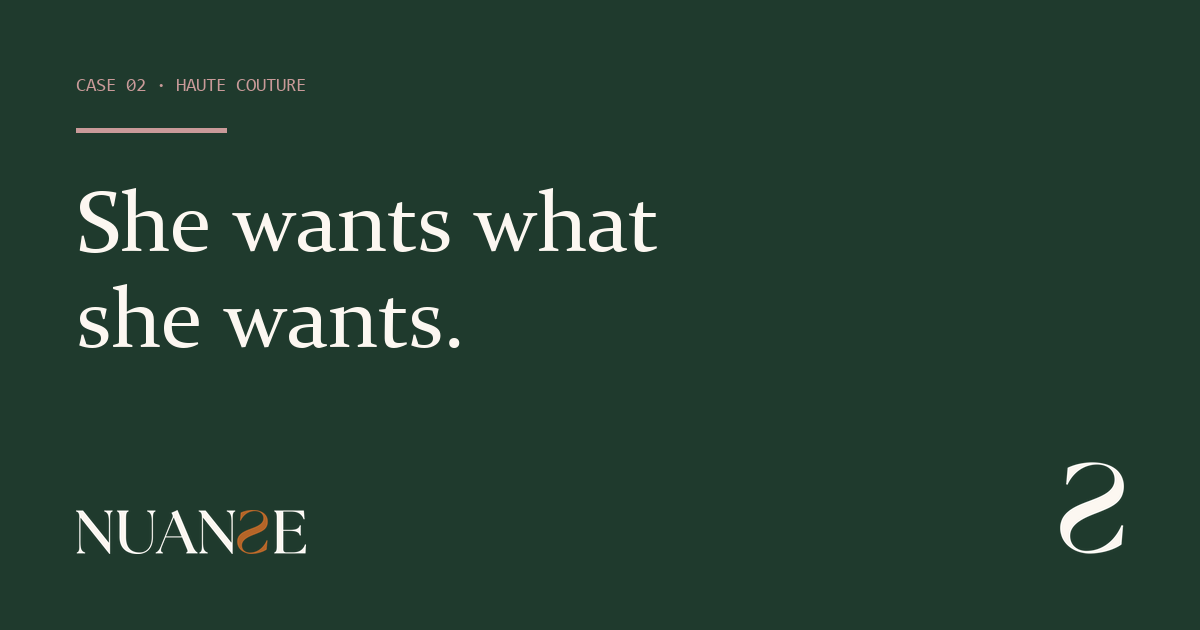
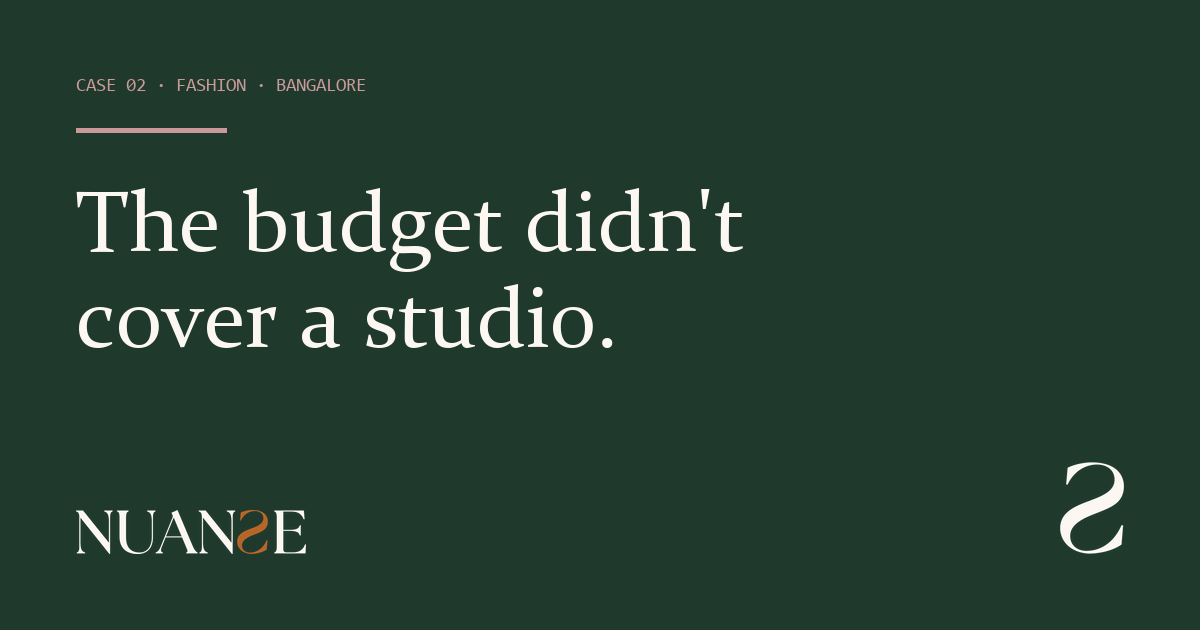
Three contrast failures, two broken share cards, and the Possah sitemap
Finishing the Possah pass. Everything here was found by a verification
run, not by reading the code.

Contrast, all three real AA failures on text a visitor reads:

  .pj-next .mono carried opacity:.8. The next-project panel wears the
  NEXT project's accent, and Zingara's true red #C8332A is dark enough
  that cream at .8 is 3.69:1 at 11px. Full cream on that red is 4.97:1 -
  the whole budget, with none left for de-emphasis. It was invisible to
  the audit until prefers-reduced-motion removed the ::before overlay
  that was hiding it.

  Zingara's menu mockup used #8A857C at 11-13px on #FFFDF6 in three
  places: 3.6:1. It is a mockup, but it is real text in the DOM, so the
  real rule applies. #746F66 is 4.9:1 and still reads as the quiet line.

The OG cards were worse than wrong, they were plausible. The Possah page
pointed at og-possah.png while the built file is og-the-possah.png, so
every shared link had no image. Fixing that surfaced two more: Zingara's
card still said "The menu was costing them." from before the rebuild,
and Possah's set the client's own tagline in Gloock with its
capitalisation changed to suit the template. Each card now carries its
page's own H1, and the line on it is ours.

Plus site/sitemap.xml gains /work/the-possah.

Verified across /, /work/zingara and /work/the-possah: zero axe
violations on desktop, reduced-motion and mobile; zero console errors,
CSP violations and failed requests on every pass including GSAP blocked;
[…]

Changed region(s): [[0.0617, 0.3016, 0.6167, 0.4222], [0.0617, 0.4524, 0.4933, 0.573], [0.1542, 0.1206, 0.3083, 0.1508]]

diff --git a/site/assets/css/work/zingara.css b/site/assets/css/work/zingara.css
@@ -123,7 +123,7 @@
 .zm-sec-after{position:absolute;left:0;top:0;white-space:nowrap;display:block;
   font-family:var(--mono);font-weight:400;letter-spacing:.16em;text-transform:uppercase;
   font-size:.86em;color:var(--accent-ink);opacity:calc((var(--p) - .5) * 2)}
-.zm-sec-meta{font-family:var(--mono);font-size:clamp(9px,1.5cqi,11px);color:#8A857C;
+.zm-sec-meta{font-family:var(--mono);font-size:clamp(9px,1.5cqi,11px);color:#746F66;
   opacity:calc((var(--p) - .5) * 2)}
 
 .zm-list{position:relative;list-style:none;margin:0;padding:0}
@@ -165,8 +165,14 @@
   vertical-align:bottom}
 .zm-suf{--w:1.6em}
 
-/* the description only exists in the corrected menu */
-.zm-desc{grid-column:1;display:block;font-size:clamp(10px,1.7cqi,13px);color:#8A857C;
+/* the description only exists in the corrected menu.
+   #746F66, not the #8A857C this and the two other greys in this mockup
+   started as: at 11-13px on #FFFDF6 that measured 3.6:1 and failed AA. It is a mockup of a menu listing, but it
+   is real text in the DOM, so the real rule applies. #746F66 is 4.9:1 and
+   still reads as the quiet line under the dish name. The failure was only
+   visible under prefers-reduced-motion, where the text is shown at full
+   opacity instead of fading in with the slider. */
+.zm-desc{grid-column:1;display:block;font-size:clamp(10px,1.7cqi,13px);color:#746F66;
   line-height:1.4;opacity:calc((var(--p) - .6) * 2.5);
   max-height:calc(var(--p) * 3em);overflow:hidden;font-family:var(--sans)}
 
@@ -181,7 +187,7 @@
 .zm-foot{position:relative;display:flex;justify-content:space-between;gap:16px;
   margin-top:clamp(18px,3cqi,30px);font-family:var(--mono);
   font-size:clamp(9px,1.5cqi,11px);letter-spacing:.14em;text-transform:uppercase;
-  color:#8A857C;opacity:var(--p)}
+  color:#746F66;opacity:var(--p)}
 
 /* ---- the control ---- */
 .zm-ctrl{position:relative;margin-top:26px}

diff --git a/site/work/_the-possah.src.html b/site/work/_the-possah.src.html
@@ -18,14 +18,14 @@
 <meta property="og:title" content="The Possah — the budget didn't cover a studio">
 <meta property="og:description" content="A collection to launch, no budget for a shoot, and a site that was losing the sale. So we built the campaign.">
 <meta property="og:url" content="https://www.thenuanse.com/work/the-possah">
-<meta property="og:image" content="https://www.thenuanse.com/assets/brand/og-possah.png">
+<meta property="og:image" content="https://www.thenuanse.com/assets/brand/og-the-possah.png">
 <meta property="og:image:width" content="1200">
 <meta property="og:image:height" content="630">
 <meta property="og:image:alt" content="The Possah, a case from NUANSE.">
 <meta name="twitter:card" content="summary_large_image">
 <meta name="twitter:title" content="The Possah — the budget didn't cover a studio">
 <meta name="twitter:description" content="A collection to launch, no budget for a shoot, and a site that was losing the sale.">
-<meta name="twitter:image" content="https://www.thenuanse.com/assets/brand/og-possah.png">
+<meta name="twitter:image" content="https://www.thenuanse.com/assets/brand/og-the-possah.png">
 
 <link rel="preload" href="../assets/fonts/gloock-400-latin.woff2" as="font" type="font/woff2" crossorigin>
 <link rel="preload" href="../assets/fonts/hanken-var-latin.woff2" as="font" type="font/woff2" crossorigin>

diff --git a/site/work/the-possah.html b/site/work/the-possah.html
@@ -18,14 +18,14 @@
 <meta property="og:title" content="The Possah — the budget didn't cover a studio">
 <meta property="og:description" content="A collection to launch, no budget for a shoot, and a site that was losing the sale. So we built the campaign.">
 <meta property="og:url" content="https://www.thenuanse.com/work/the-possah">
-<meta property="og:image" content="https://www.thenuanse.com/assets/brand/og-possah.png">
+<meta property="og:image" content="https://www.thenuanse.com/assets/brand/og-the-possah.png">
 <meta property="og:image:width" content="1200">
 <meta property="og:image:height" content="630">
 <meta property="og:image:alt" content="The Possah, a case from NUANSE.">
 <meta name="twitter:card" content="summary_large_image">
 <meta name="twitter:title" content="The Possah — the budget didn't cover a studio">
 <meta name="twitter:description" content="A collection to launch, no budget for a shoot, and a site that was losing the sale.">
-<meta name="twitter:image" content="https://www.thenuanse.com/assets/brand/og-possah.png">
+<meta name="twitter:image" content="https://www.thenuanse.com/assets/brand/og-the-possah.png">
 
 <link rel="preload" href="../assets/fonts/gloock-400-latin.woff2" as="font" type="font/woff2" crossorigin>
 <link rel="preload" href="../assets/fonts/hanken-var-latin.woff2" as="font" type="font/woff2" crossorigin>

diff --git a/site/assets/css/work.css b/site/assets/css/work.css
@@ -131,7 +131,14 @@
   color:var(--cream);padding:clamp(70px,11vw,150px) var(--gut);position:relative;overflow:hidden}
 .pj-next-in{display:grid;grid-template-columns:minmax(0,1fr) auto;gap:clamp(20px,4vw,48px);
   align-items:end}
-.pj-next .mono{opacity:.8;margin:0}
+/* No opacity on the eyebrow. The ground here is the NEXT project's accent,
+   and Zingara's true red #C8332A is dark enough that cream at .8 measures
+   3.69:1 at 11px - a real AA failure, visible only once .rm removes the
+   ::before overlay that was hiding it from the audit. Full cream on that red
+   is 4.97:1, which is the whole budget; there is none left to spend on
+   de-emphasis. The hierarchy here is 11px mono against 124px serif, which is
+   hierarchy enough. */
+.pj-next .mono{margin:0}
 .pj-next b{display:block;font-family:var(--serif);font-weight:400;
   font-size:clamp(44px,7.4vw,124px);line-height:.92;letter-spacing:-.035em;margin-top:14px;
   max-width:14ch}

diff --git a/tools/build-og-cards.py b/tools/build-og-cards.py
@@ -23,13 +23,17 @@ CREAM = '#FCF7F1'
 SERIF = 'C:/Windows/Fonts/constan.ttf'          # Constantia — a workable stand-in
 MONO = 'C:/Windows/Fonts/consola.ttf'
 
+# Each card carries its page's own H1, so a shared link and the page it opens
+# say the same thing. And the line is always OURS: a client's brand line set in
+# Gloock, with its capitalisation changed to suit a template, is a small
+# infidelity to ship on the thing that travels furthest from the work.
 CARDS = [
     {'out': 'og-zingara.png', 'ground': '#1C1A18', 'accent': '#C8332A',
      'kicker': 'CASE 01 · RESTAURANT · BANGALORE',
-     'title': 'The menu was\ncosting them.'},
+     'title': 'It read like three\nrestaurants.'},
     {'out': 'og-the-possah.png', 'ground': '#1F3A2D', 'accent': '#C99A99',
-     'kicker': 'CASE 02 · HAUTE COUTURE',
-     'title': 'She wants what\nshe wants.'},
+     'kicker': 'CASE 02 · FASHION · BANGALORE',
+     'title': "The budget didn't\ncover a studio."},
 ]
 
 

diff --git a/BUILD-LOG.md b/BUILD-LOG.md
@@ -5,6 +5,130 @@ matters — what was measured rather than assumed.
 
 ---
 
+## 2026-10-14 · The Possah, and four things it caught on the way through
+
+The second case page. Same chassis, same shape as the rebuilt Zingara: a
+campaign chapter, the signature, the system, naming, applications, the site
+work, scope, next.
+
+### The campaign chapter was missing, and the page promised it
+
+The H1 is *"The budget didn't cover a studio."* and the problem section says the
+campaign was built rather than booked. Nothing on the page showed a campaign
+frame. Five do now — two on location, three on the seamless — on a new
+`.gv.p45`, because `.gv.tall` is 2/3 and these frames are 4:5, and cropping a
+seventh off the width of a photograph someone composed is not a layout
+decision.
+
+### Three claims written, then withdrawn
+
+Each one I wrote myself and then could not support:
+
+**"Graded until twenty-four pieces looked like one afternoon."** The three
+catalogue backdrops measure `230,222,209`, `228,207,180` and `216,192,158`.
+That is three grades, not one. The H2, the lede and the closing note all
+carried the claim in some form; all three now carry only what is documented —
+the models are generated, the garments are real, scope on file is an AI model
+photoshoot across 24 SKUs.
+
+**"The cast shadow falling to the right."** It falls left, as a patch of window
+light. Alt text and caption corrected after looking at the source frame rather
+than the thumbnail.
+
+**"Page 03 of the Possah guidelines."** The tone-of-voice board's own foot reads
+03, but the contents board — which is on this same page, two chapters up — puts
+Tone of Voice at section 11, page 54. The page names the section instead of a
+number it cannot reconcile.
+
+The pattern is the same each time: the claim was plausible, and the file
+disagreed. Plausible is the dangerous kind.
+
+### The signature rested in the wrong place
+
+The voice matrix rested at `1,1` — the corner of its own pad, where a 24px dot
+with a −12px margin is bisected by the border and effectively invisible, and
+25 percentage points away from the dashed ring marking the brand's position.
+The guidelines plot Possah *inside* the Bold + Composed quadrant. A brand at
+the corner of its own matrix is a caricature of itself, and the board does not
+draw one there.
+
+It rests at `.75,.75` now, under the ring, which is grown to 38px so the dot
+sits inside it rather than covering it. `--drift` is measured from that point,
+one-sided: softer or more playful than Possah is drift; bolder or more composed
+is not. JS and CSS derive it with the same expression, so the state announced
+to a screen reader cannot disagree with the state on screen.
+
+### Two defects in the shared chassis, both found by looking
+
+**`.pj-specs` and `.pj-swatches` drew their hairlines by bleeding a container
+background through a 1px gap.** It works only when the item count fills the last
+row. Eight specs in a six-wide `auto-fit` grid left four empty tracks painted as
+a solid grey slab. The hairlines are on the cells now, so a grid that does not
+fill its last row simply stops.
+
+**`.pj-next .mono` had `opacity:.8`.** The next-project panel wears the *next*
+project's accent, and Zingara's true red `#C8332A` is dark enough that cream at
+.8 is 3.69:1 at 11px — a real AA failure. Full cream on that red is 4.97:1,
+which is the entire budget; there is none to spend on de-emphasis. It was
+invisible to the audit until `prefers-reduced-motion` removed the `::before`
+overlay that was hiding it.
+
+And one in Zingara's menu mockup: `#8A857C` at 11–13px on `#FFFDF6` is 3.6:1,
+in three places. It is a mockup, but it is real text in the DOM, so the real
+rule applies. `#746F66` is 4.9:1 and still reads as the quiet line.
+
+### Point 4: "CSS file is not implemented"
+
+Still not reproducible, so it is now asserted instead of argued.
+`css-applied.js` checks three failure modes that look identical in a
+screenshot — the `<link>` 404s or resolves wrong; it loads but the MIME type
+makes the browser refuse it; it applies but a rule you believe is in it is not.
+Per page it asserts every linked sheet produced rules, that a load-bearing rule
+from each computes on a real element, and that the three `@font-face` families
+`core.css` imports actually loaded.
+
+All six stylesheets, all three pages, over HTTP **and** over `file://`: pass.
+
+### Two boards the page was missing
+
+The pattern system (three tessellations, each given its job on the page it is
+drawn on) and sizing and minimum scale (60 / 35 / 20 mm in print, 24px digital,
+symbol alone below the floor). The last two are also in `.pj-specs` now. Both
+carry content nothing else on the page said.
+
+### Also
+
+The OG card pointed at `og-possah.png` while the built file is
+`og-the-possah.png` — a broken share image on every link. Both cards now carry
+their page's own H1, which also fixed Zingara's, still reading *"The menu was
+costing them."* from before the rebuild. And the Possah card set the client's
+tagline in Gloock with its capitalisation changed to suit the template; the
+line is ours now.
+
+### Measured
+
+Zero axe violations on all three pages across desktop, reduced-motion and
+mobile. Zero console errors, zero CSP violations, zero failed requests, on
+every pass including GSAP blocked. Contrast audit against drawn pixels: clean.
+**500 KB first load, 1102 KB fully scrolled**, against a 1500 KB budget, with
+twenty-three boards on the page.
+
+The voice matrix was driven three ways — at rest, by keyboard through the range
+inputs, and by pointer drag — with GSAP loaded and with GSAP blocked. Identical
+in both: the dot lands inside the pad, the quadrant and the cross-fade follow,
+and the live region says the state in words.
+
+### Still open
+
+One axe finding remains, on the **home page** and pre-existing: `.ink` body copy
+starts its entrance animation at `opacity:0.2`, which computes to 1.41:1 before
+it reveals. It is a transient state of a 0.7s fade that fires as the element
+enters the viewport, and with JS off there is no CSS rule setting it at all, so
+the no-GSAP path is fully contrasted. Changing the reveal is a design decision,
+so it is reported rather than changed.
+
+---
+
 ## 2026-10-14 · The home page stops explaining itself
 
 A copy pass, classified and approved line by line before anything was
